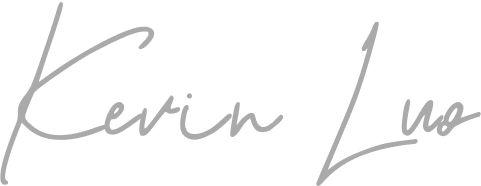
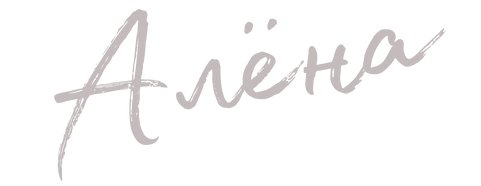
Fixes

Changed region(s): [[0.0, 0.0, 1.0, 1.0], [0.499, 0.1075, 0.5925, 0.1882], [0.9044, 0.1613, 0.9356, 0.2151]]

diff --git a/src/container/AboutUs/AboutUs.jsx b/src/container/AboutUs/AboutUs.jsx
@@ -11,10 +11,10 @@ const AboutUs = () => (
 
     <div className="app__aboutus-content flex__center">
       <div className="app__aboutus-content_about">
-        <h1 className="headtext__cormorant">About Us</h1>
+        <h1 className="headtext__cormorant">Доставка Wolt</h1>
         <img src={images.spoon} alt="about_spoon" className="spoon__img" />
-        <p className="p__opensans">Lorem ipsum dolor sit amet, consectetur adipiscing elit. Quis pharetra adipiscing ultrices vulputate posuere tristique. In sed odio nec aliquet eu proin mauris et.</p>
-        <button type="button" className="custom__button">Know More</button>
+        <p className="p__opensans">Закажите ваши любимые веганские вкусняшки из нашего кафе через сайт Wolt.</p>
+        <a href="https://wolt.com/en/geo/batumi/restaurant/go-vegan-cafe" target="_blank" rel="noreferrer"><button type="button" className="custom__button">Заказать</button></a>
       </div>
 
       <div className="app__aboutus-content_knife flex__center">
@@ -22,10 +22,10 @@ const AboutUs = () => (
       </div>
 
       <div className="app__aboutus-content_history">
-        <h1 className="headtext__cormorant">Our History</h1>
+        <h1 className="headtext__cormorant">Доставка Bolt</h1>
         <img src={images.spoon} alt="about_spoon" className="spoon__img" />
-        <p className="p__opensans">Adipiscing tempus ullamcorper lobortis odio tellus arcu volutpat. Risus placerat morbi volutpat habitasse interdum mi aliquam In sed odio nec aliquet.</p>
-        <button type="button" className="custom__button">Know More</button>
+        <p className="p__opensans">Закажите ваши любимые веганские вкусняшки из нашего кафе через сайт Bolt.</p>
+        <a href="https://food.bolt.eu/en-US/38-batumi/p/57127-go-vegan-cafe" target="_blank" rel="noreferrer"><button type="button" className="custom__button">Заказать</button></a>
       </div>
     </div>
   </div>

diff --git a/src/container/Chef/Chef.jsx b/src/container/Chef/Chef.jsx
@@ -10,19 +10,19 @@ const Chef = () => (
       <img src={images.chef} alt="chef_image" />
     </div>
     <div className="app__wrapper_info">
-      <SubHeading title="Chef's word" />
-      <h1 className="headtext__cormorant">What we believe in</h1>
+      <SubHeading title="Слово шеф-повара" />
+      <h1 className="headtext__cormorant">Мы верим, что еда может здоровой и вкусной</h1>
 
       <div className="app__chef-content">
         <div className="app__chef-content_quote">
           <img src={images.quote} alt="quote_image" />
-          <p className="p__opensans">Lorem ipsum dolor sit amet, consectetur adipiscing elit auctor sit .</p>
+          <p className="p__opensans">Я всегда мечтала открыть кафе, где посетители смогут вкусно поесть и не отравиться.</p>
         </div>
-        <p className="p__opensans"> auctor sit iaculis in arcu. Vulputate nulla lobortis mauris eget sit. Nulla scelerisque scelerisque congue ac consequat, aliquam molestie lectus eu. Congue iaculis integer curabitur semper sit nunc. </p>
+        <p className="p__opensans">И кажется, нам с командой удалось это сделать. Мы создали этическое пространство, где можно заказать здоровую и полезную пищу. Кароч, попробуйте сами. Пальчики оближешь, зуб даю.</p>
       </div>
 
       <div className="app__chef-sign">
-        <p>Kevin Luo</p>
+        <p>Алёна</p>
         <p className="p__opensans">Chef & Founder</p>
         <img src={images.sign} alt="sign_image" />
       </div>

diff --git a/src/constants/data.js b/src/constants/data.js
@@ -4,55 +4,55 @@ const wines = [
   {
     title: 'Апельсиновый фреш',
     price: '9 ₾',
-    tags: '0.3 L',
+    tags: '0.3 л',
   },
   {
     title: 'Грейпфрутовый фреш',
     price: '9 ₾',
-    tags: '0.3 L',
+    tags: '0.3 л',
   },
   {
     title: 'Лемонад киви-мята',
     price: '7 ₾',
-    tags: '0.3 L',
+    tags: '0.3 л',
   },
   {
     title: 'Комбуча в ассортименте',
     price: '8 ₾',
-    tags: '0.3 L',
+    tags: '0.3 л',
   },
   {
     title: 'Вода',
     price: '1 ₾',
-    tags: '0.5 L',
+    tags: '0.5 л',
   },
 ];
 
 const cocktails = [
   {
     title: 'Чай (куркума, имбирь, лемонграсс)',
-    price: '$20',
-    tags: 'Aperol | Villa Marchesi prosecco | soda | 30 ml',
+    price: '3 ₾',
+    tags: '250 мл',
   },
   {
     title: 'Чай (ромашка и липа)',
-    price: '$16',
-    tags: 'Dark rum | Ginger beer | Slice of lime',
+    price: '3 ₾',
+    tags: '250 мл',
   },
   {
     title: 'Гречишный чай',
-    price: '$10',
-    tags: 'Rum | Citrus juice | Sugar',
+    price: '3 ₾',
+    tags: '250 мл',
   },
   {
     title: 'Американо',
-    price: '$31',
-    tags: 'Bourbon | Brown sugar | Angostura Bitters',
+    price: '3 ₾',
+    tags: '250 мл',
   },
   {
     title: 'Капучино',
-    price: '$26',
-    tags: 'Gin | Sweet Vermouth | Campari | Orange garnish',
+    price: '7 ₾',
+    tags: 'На растительном молоке | 250 мл',
   },
 ];
 

diff --git a/src/container/Menu/SpecialMenu.jsx b/src/container/Menu/SpecialMenu.jsx
@@ -7,8 +7,8 @@ import './SpecialMenu.css';
 const SpecialMenu = () => (
   <div className="app__specialMenu flex__center section__padding" id="menu">
     <div className="app__specialMenu-title">
-      <SubHeading title="Menu that fits your palatte" />
-      <h1 className="headtext__cormorant">Today&apos;s Special</h1>
+      <SubHeading title="Еда, за которую не стыдно" />
+      <h1 className="headtext__cormorant">Гляньте наше меню</h1>
     </div>
 
     <div className="app__specialMenu-menu">
@@ -36,7 +36,7 @@ const SpecialMenu = () => (
     </div>
 
     <div style={{ marginTop: 15 }}>
-      <button type="button" className="custom__button">View More</button>
+      <button type="button" className="custom__button">Посмотреть полное меню</button>
     </div>
   </div>
 );

diff --git a/src/index.css b/src/index.css
@@ -1,8 +1,12 @@
-@import url('https://fonts.googleapis.com/css2?family=Cormorant+Upright:wght@300;400;500;600;700&family=Open+Sans:wght@300;400;500;600;700&display=swap');
+/* @import url('https://fonts.googleapis.com/css2?family=Cormorant+Upright:wght@300;400;500;600;700&family=Open+Sans:wght@300;400;500;600;700&display=swap'); */
+
+@import url('https://fonts.googleapis.com/css2?family=Yanone+Kaffeesatz:wght@300;400;500;600;700&family=Neucha&family=Public+Sans:wght@300;400&display=swap');
+
+/* Montserrat, Comfortaa Yanone+Kaffeesatz*/
 
 :root {
-  --font-base: 'Cormorant Upright', serif;
-  --font-alt: 'Open Sans', sans-serif;
+  --font-base: 'Yanone Kaffeesatz','Public Sans', sans-serif;
+  --font-alt: 'Comfortaa', sans-serif;
   
   --color-golden: #DCCA87;
   --color-black: #0C0C0C;

diff --git a/src/container/Header/Header.jsx b/src/container/Header/Header.jsx
@@ -7,10 +7,10 @@ import './Header.css';
 const Header = () => (
   <div className="app__header app__wrapper section__padding" id="home">
     <div className="app__wrapper_info">
-      <SubHeading title="Chase the new flavour" />
+      <SubHeading title="С любовью к планете и животным" />
       <h1 className="app__header-h1">Кафе растительной кухни</h1>
       <p className="p__opensans" style={{ margin: '2rem 0' }}>Готовим вкусную, полезную и этическую еду ❤</p>
-      <button type="button" className="custom__button">Explore Menu</button>
+      <button type="button" className="custom__button">Смотреть меню</button>
     </div>
 
     <div className="app__wrapper_img">

diff --git a/src/App.css b/src/App.css
@@ -59,12 +59,16 @@
     font-weight: 700;
     letter-spacing: 0.04em;
     line-height: 28px;
-    font-size: 16px;
+    font-size: 20px;
     padding: 0.5rem 1.5rem;
     border-radius: 1px;
     border: none;
     outline: none;
     cursor: pointer;
+}
+
+.custom__button:hover {
+  transform: scale(1.2);
 }
 
 .p__cormorant {
